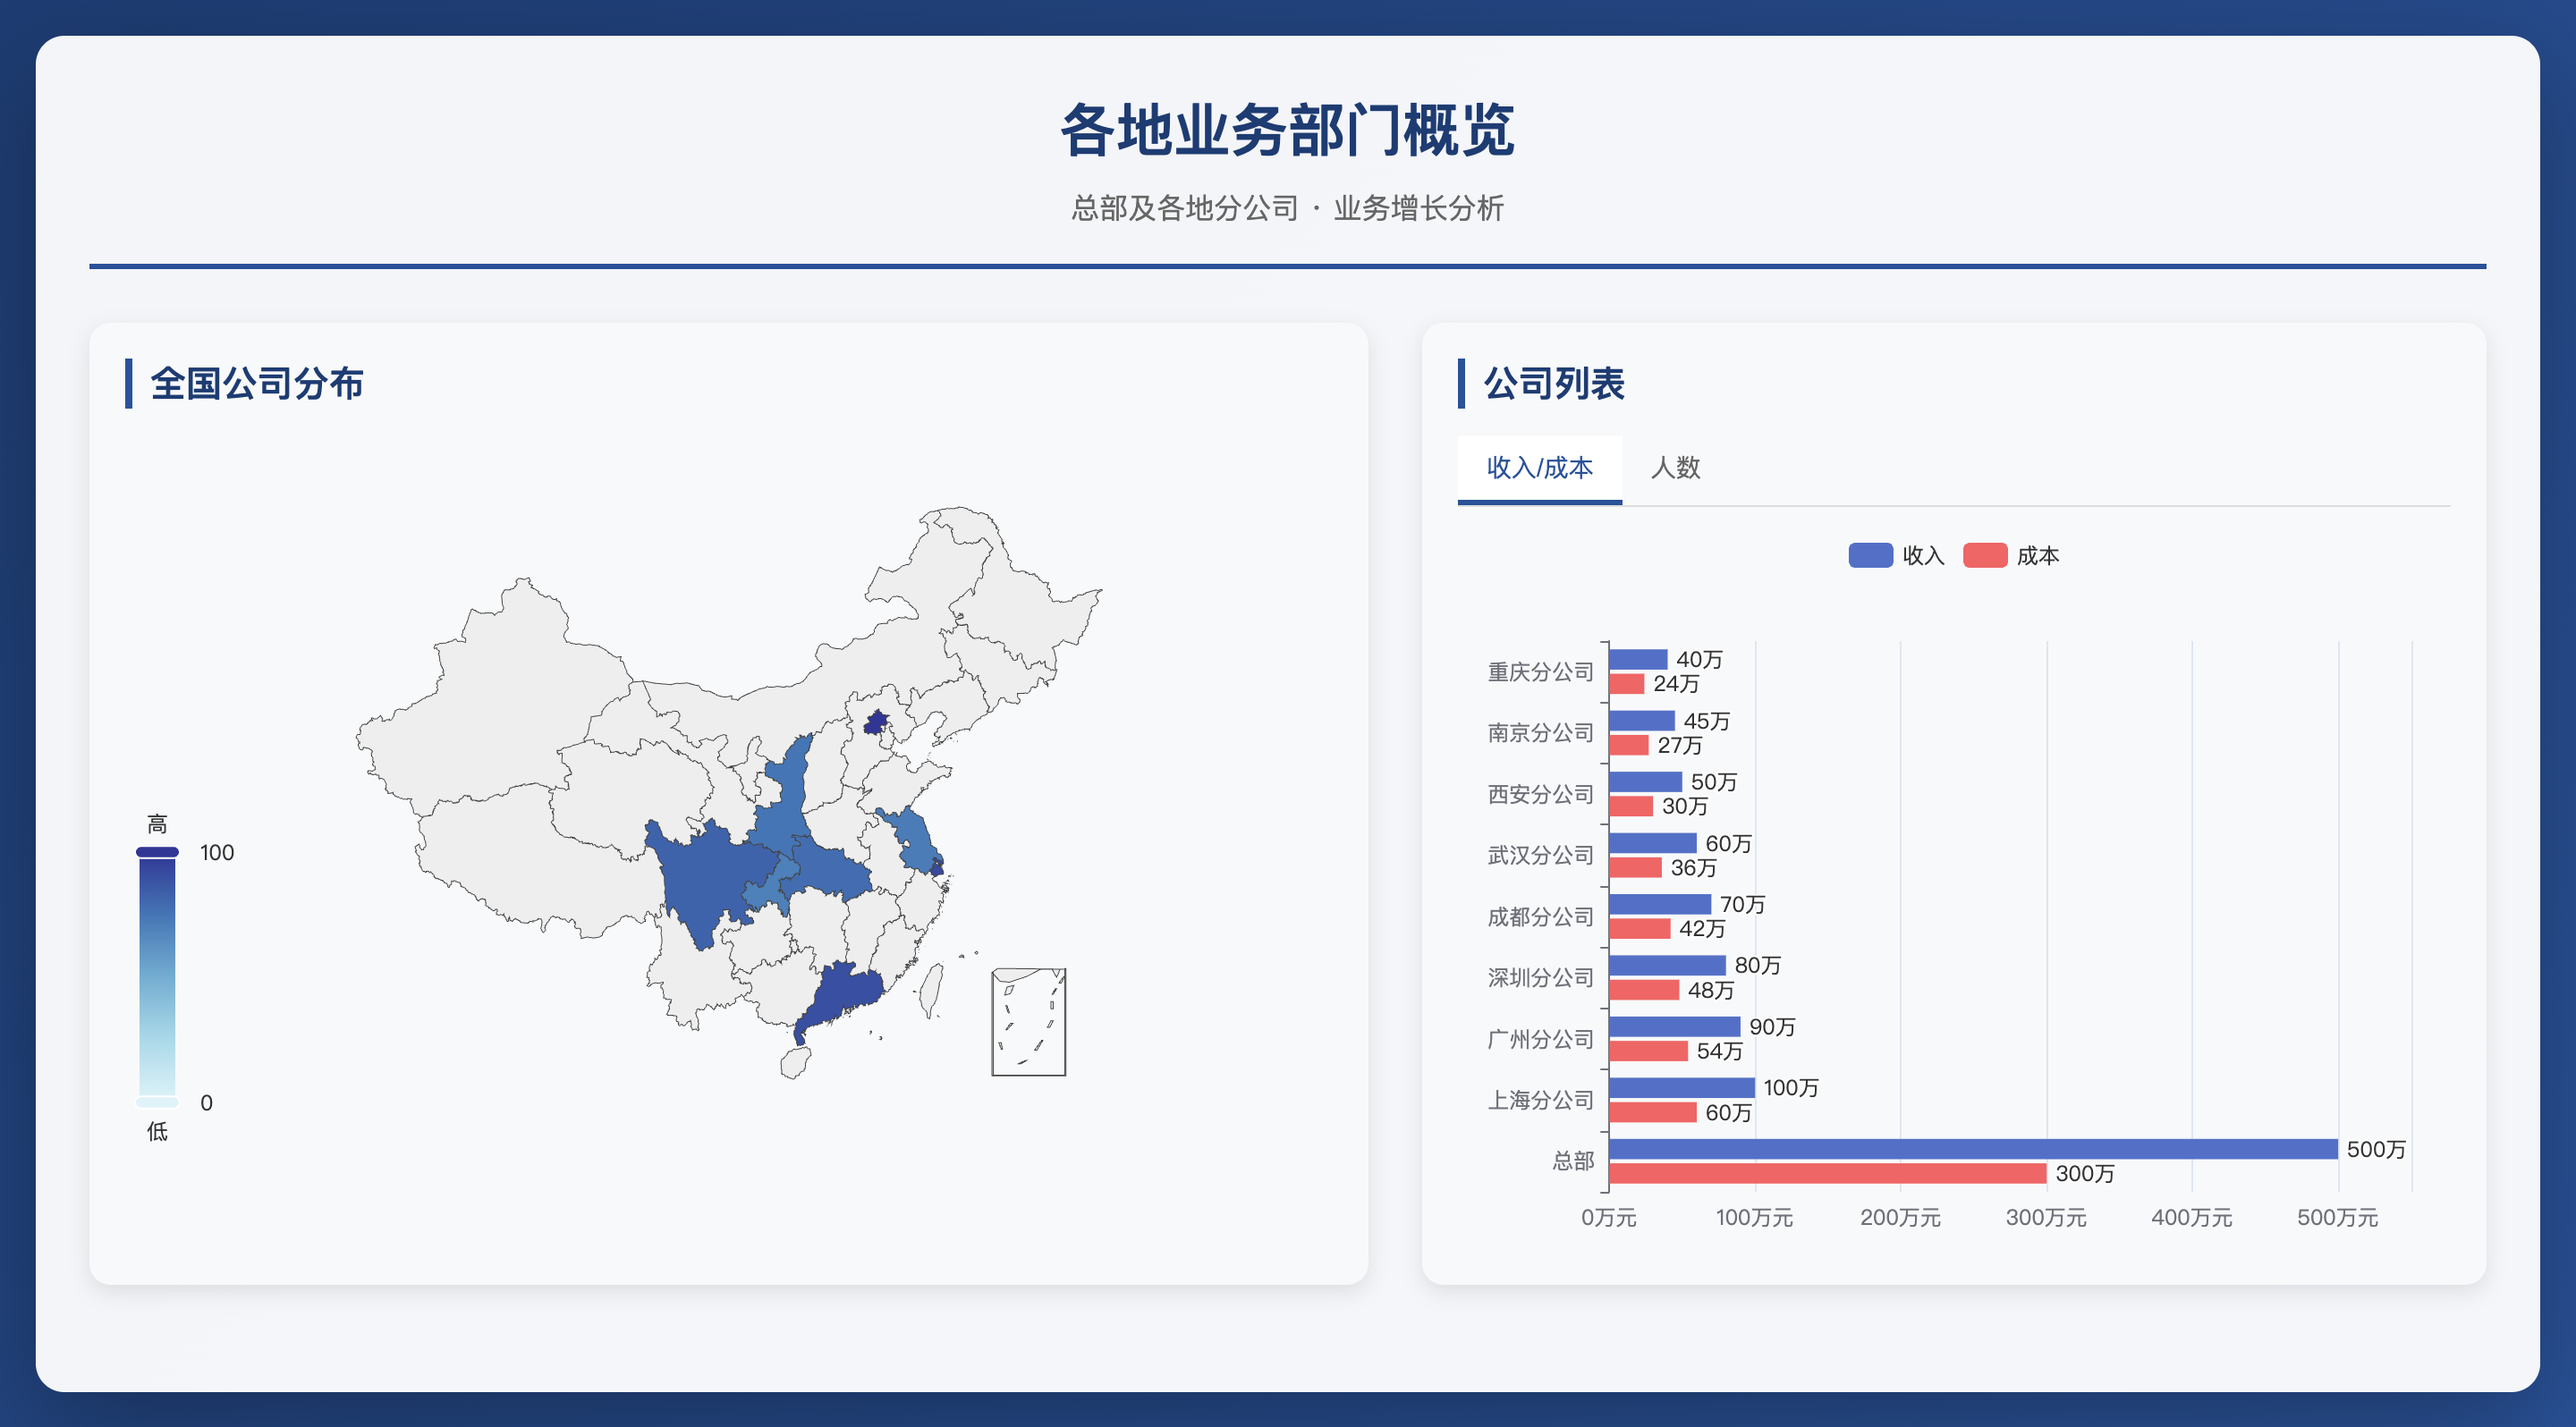
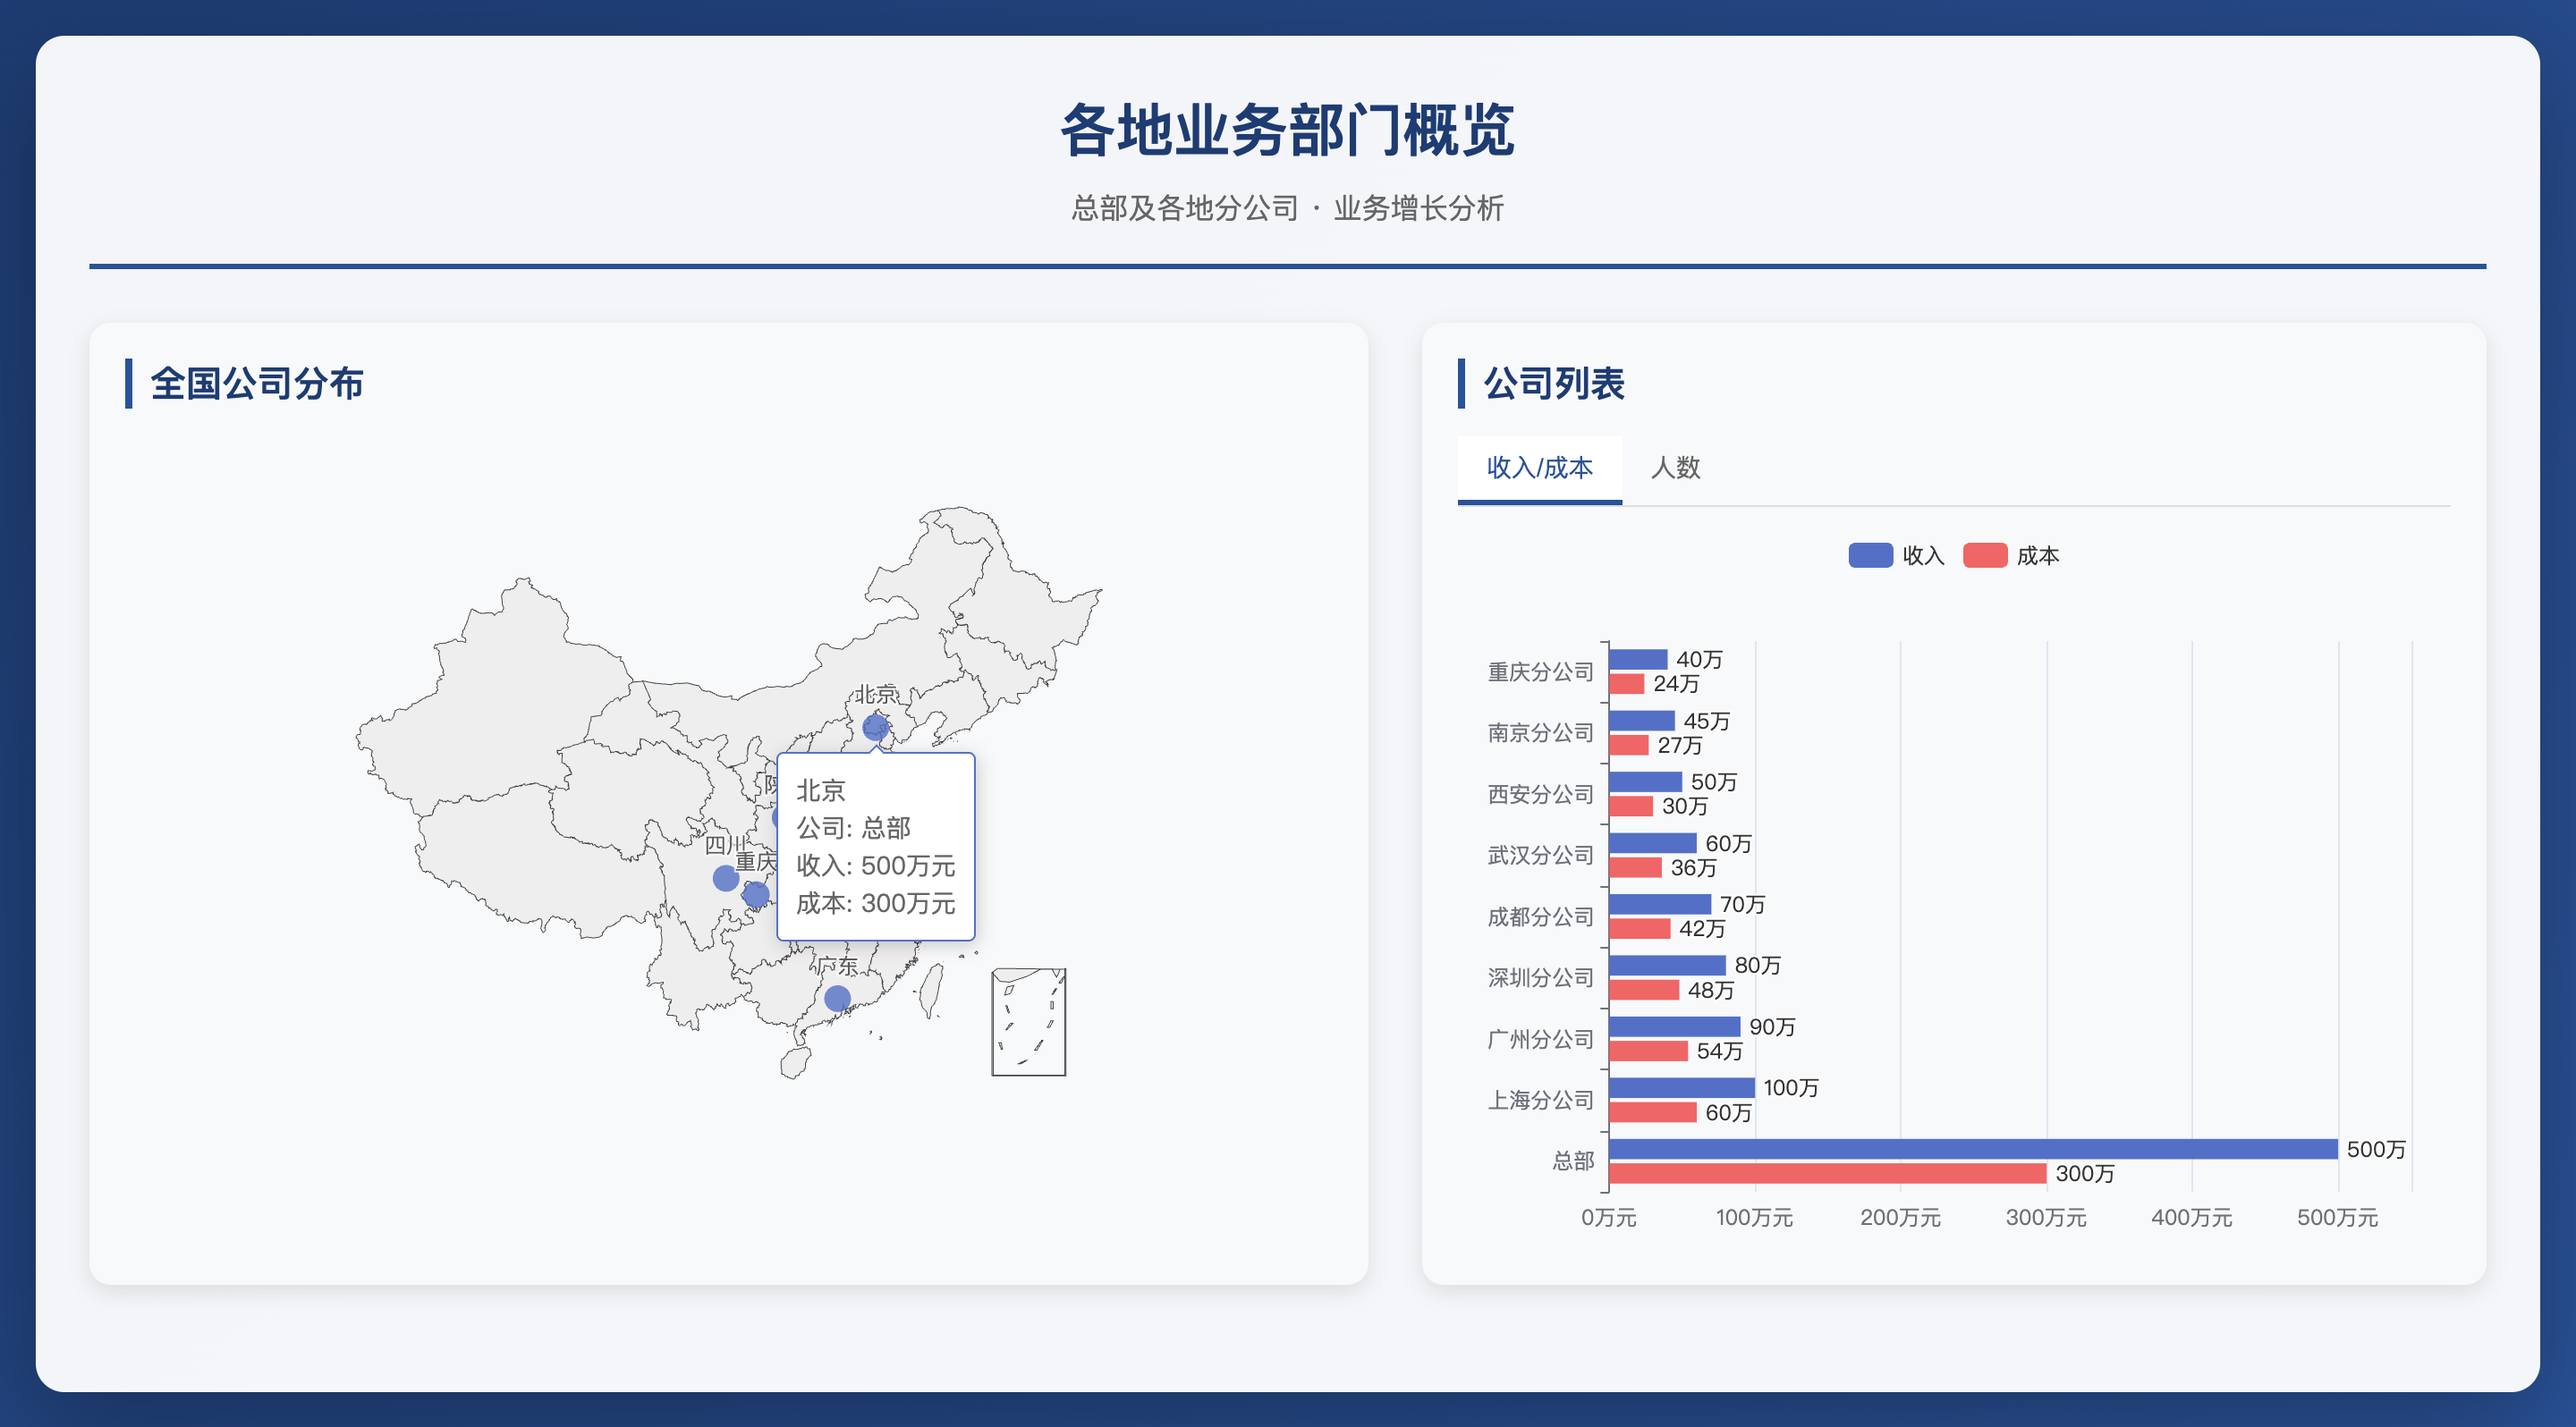
feat(地图可视化): 优化地图悬停信息显示和数据绑定
重构地图数据绑定逻辑，直接使用params.data显示悬停信息
添加长时间显示悬停信息的配置
修改地图数据点生成方式，与数据源直接绑定
增加多次触发悬停事件确保截图时能捕获到

Changed region(s): [[0.25, 0.4912, 0.375, 0.7368], [0.0312, 0.5833, 0.0938, 0.7675]]

diff --git a/公司整体运营情况汇报-赋能中心运营概览-整体.html b/公司整体运营情况汇报-赋能中心运营概览-整体.html
@@ -232,19 +232,18 @@
                 trigger: 'item',
                 formatter: function(params) {
                     if (params.data) {
-                        // 查找对应的mapData数据
-                        const mapDataItem = mapData.find(item => item.name === params.name);
-                        if (mapDataItem) {
-                            return params.name + '<br/>' +
-                                   '培训人数: ' + mapDataItem.training + '人<br/>' +
-                                   '岗位数: ' + mapDataItem.jobs + '个<br/>' +
-                                   '求职数: ' + mapDataItem.applicants + '人<br/>' +
-                                   '测评人数: ' + mapDataItem.assessment + '人<br/>' +
-                                   '活跃度: ' + mapDataItem.value;
-                        }
+                        return params.name + '<br/>' +
+                               '培训人数: ' + params.data.training + '人<br/>' +
+                               '岗位数: ' + params.data.jobs + '个<br/>' +
+                               '求职数: ' + params.data.applicants + '人<br/>' +
+                               '测评人数: ' + params.data.assessment + '人<br/>' +
+                               '活跃度: ' + params.data.activity;
                     }
                     return params.name;
-                }
+                },
+                // 禁用自动隐藏，确保悬停信息持续显示
+                hideDelay: 999999, // 非常长的隐藏延迟
+                triggerOn: 'none' // 不自动触发，只通过代码触发
             },
             geo: {
                 map: 'china',
@@ -263,18 +262,30 @@
                     name: '赋能中心',
                     type: 'scatter',
                     coordinateSystem: 'geo',
-                    data: [
-                        {name: '北京', value: [116.4074, 39.9042]},
-                        {name: '上海', value: [121.4737, 31.2304]},
-                        {name: '广东', value: [113.2644, 23.1291]},
-                        {name: '浙江', value: [120.1551, 30.2741]},
-                        {name: '四川', value: [104.0668, 30.5728]},
-                        {name: '湖北', value: [114.3055, 30.5928]},
-                        {name: '陕西', value: [108.9402, 34.3416]},
-                        {name: '江苏', value: [118.7778, 32.0603]},
-                        {name: '重庆', value: [106.5516, 29.5630]},
-                        {name: '天津', value: [117.2009, 39.0842]}
-                    ],
+                    data: mapData.map(item => {
+                        // 为每个省份找到对应的坐标
+                        const coords = {
+                            '北京': [116.4074, 39.9042],
+                            '上海': [121.4737, 31.2304],
+                            '广东': [113.2644, 23.1291],
+                            '浙江': [120.1551, 30.2741],
+                            '四川': [104.0668, 30.5728],
+                            '湖北': [114.3055, 30.5928],
+                            '陕西': [108.9402, 34.3416],
+                            '江苏': [118.7778, 32.0603],
+                            '重庆': [106.5516, 29.5630],
+                            '天津': [117.2009, 39.0842]
+                        };
+                        return {
+                            name: item.name,
+                            value: coords[item.name] || [0, 0],
+                            training: item.training,
+                            jobs: item.jobs,
+                            applicants: item.applicants,
+                            assessment: item.assessment,
+                            activity: item.value
+                        };
+                    }),
                     symbolSize: 10,
                     label: {
                         show: true,
@@ -297,14 +308,23 @@
         console.log('Map initialized:', chinaMap);
         console.log('Map option set:', chinaMap.getOption());
         
-        // 默认悬停北京
-        setTimeout(function() {
+        // 默认悬停北京 - 多次触发，确保截图时能捕获到
+        function showHoverInfo() {
             chinaMap.dispatchAction({
                 type: 'showTip',
                 seriesIndex: 0,
-                dataIndex: mapData.findIndex(item => item.name === '北京')
+                dataIndex: 0 // 直接使用索引0，确保是北京
             });
-        }, 500);
+        }
+        
+        // 立即触发
+        showHoverInfo();
+        
+        // 多次触发，确保悬停信息显示
+        setTimeout(showHoverInfo, 200);
+        setTimeout(showHoverInfo, 400);
+        setTimeout(showHoverInfo, 600);
+        setTimeout(showHoverInfo, 800);
         
         // 添加点击事件
         chinaMap.on('click', function(params) {
